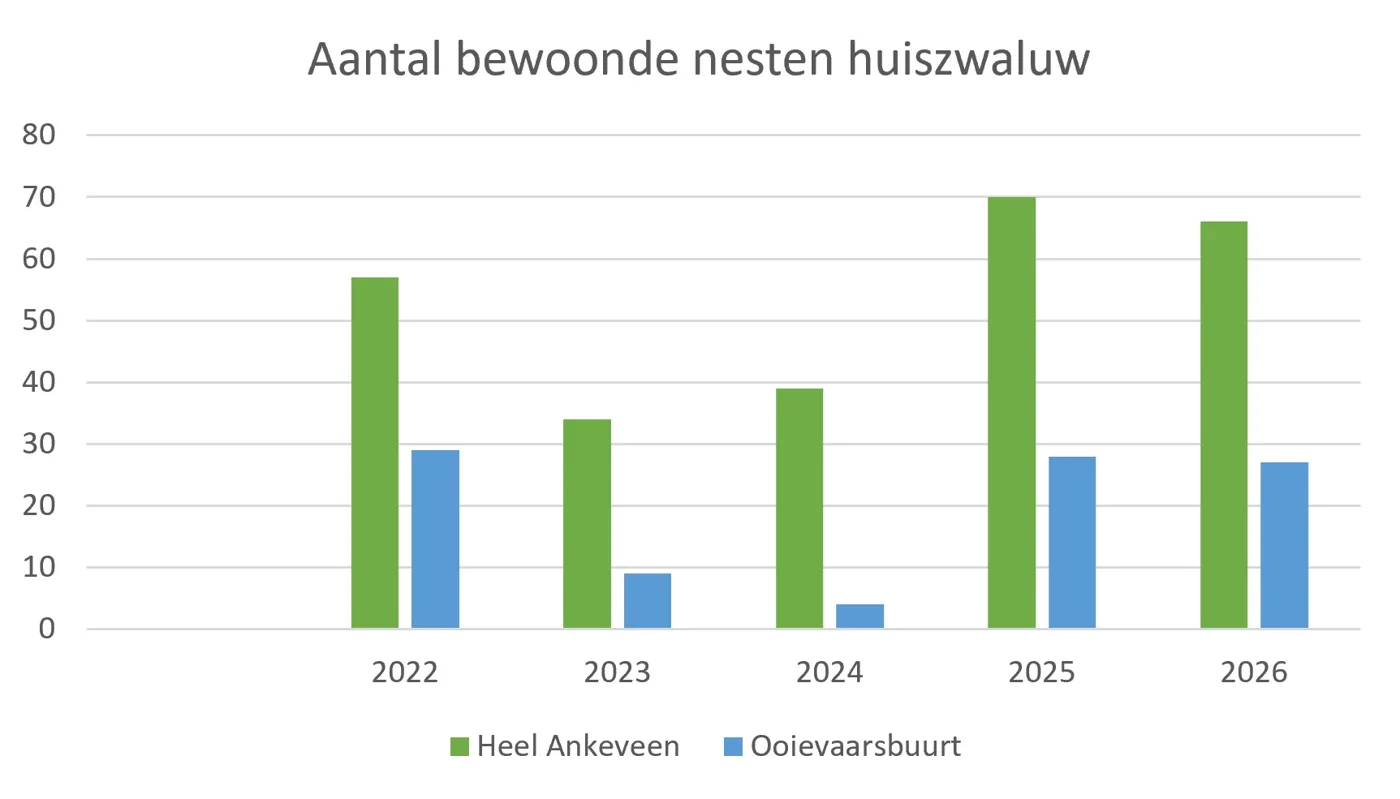
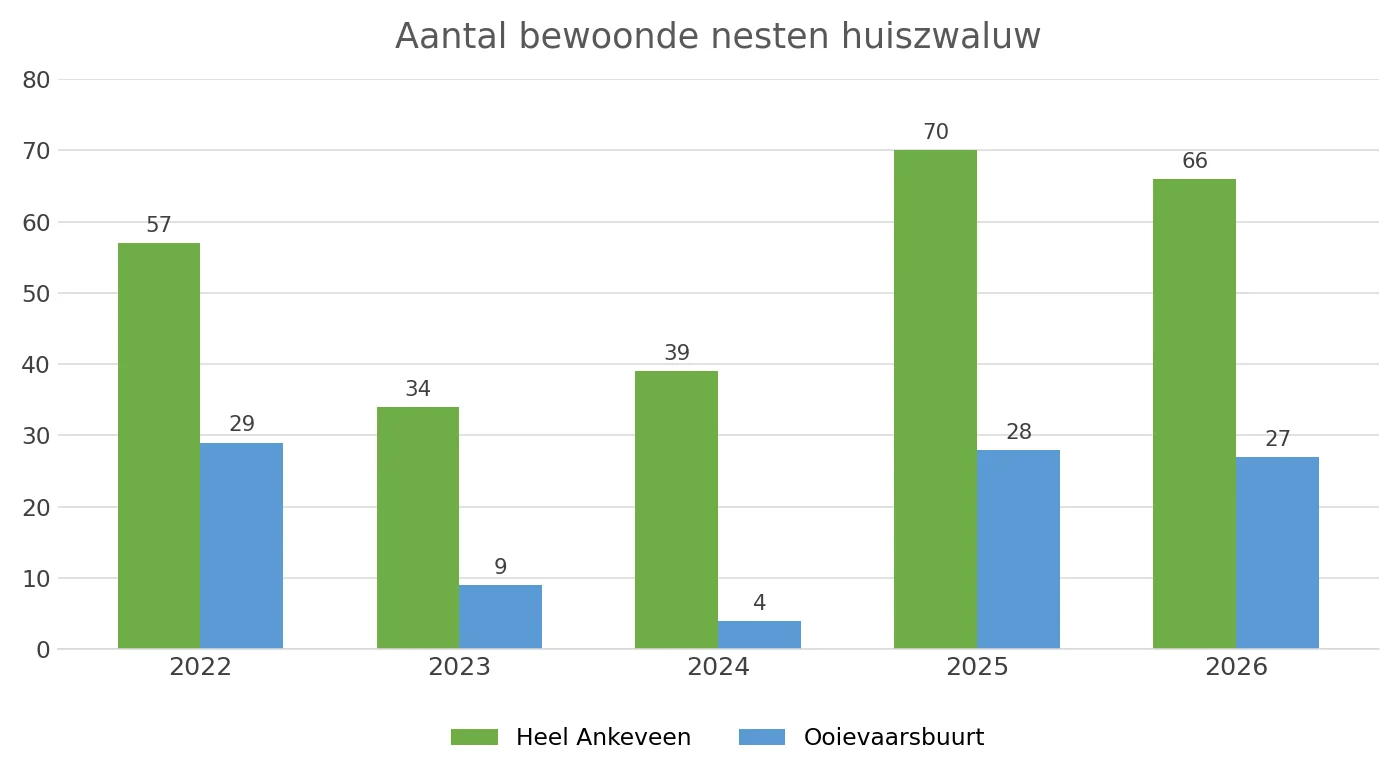
Zwaluwgrafiek opnieuw getekend zonder lege ruimte, met waarden

diff --git a/zwaluwen.html b/zwaluwen.html
@@ -43,7 +43,7 @@
     <section class="content">
         <h2>De huiszwaluw in de knel</h2>
         <p>De huiszwaluw nestelt van nature onder dakgoten. Door gladde gevels, minder modder en renovaties zijn er steeds minder geschikte plekken, en in Ankeveen daalde het aantal nesten jaar na jaar. In 2024 waren er in de Ooievaarsbuurt nog maar 6 succesvolle nesten.</p>
-        <figure><img src="images/Huiszwaluwen_grafiek_2022_-_2026.webp" width="1400" height="820" alt="Grafiek: aantal bewoonde huiszwaluwnesten 2022 tot en met 2026" loading="lazy" data-lightbox><figcaption>Aantal bewoonde nesten per jaar. Klik om te vergroten.</figcaption></figure>
+        <figure><img src="images/Huiszwaluwen_grafiek_2022_-_2026.webp" width="1400" height="784" alt="Grafiek: aantal bewoonde huiszwaluwnesten 2022 tot en met 2026" loading="lazy" data-lightbox><figcaption>Aantal bewoonde nesten per jaar. Klik om te vergroten.</figcaption></figure>
         <h2>Wat we doen</h2>
         <ul>
         <li>54 kunstnesten geplaatst onder dakgoten van bewoners die meedoen</li>

diff --git a/index.html b/index.html
@@ -153,7 +153,7 @@
             </div>
             <div class="zwaluwen-images">
                 <div>
-                    <img class="chart" src="images/Huiszwaluwen_grafiek_2022_-_2026.webp" width="1400" height="820" alt="Grafiek: aantal bewoonde huiszwaluwnesten in Ankeveen 2022 tot en met 2026" loading="lazy" data-lightbox>
+                    <img class="chart" src="images/Huiszwaluwen_grafiek_2022_-_2026.webp" width="1400" height="784" alt="Grafiek: aantal bewoonde huiszwaluwnesten in Ankeveen 2022 tot en met 2026" loading="lazy" data-lightbox>
                     <p class="figcap">Aantal nesten per jaar. Klik om te vergroten.</p>
                 </div>
                 <img src="images/IMG_5525.webp" width="1280" height="960" alt="Vrijwilligers bij de zwaluwtil" loading="lazy">
